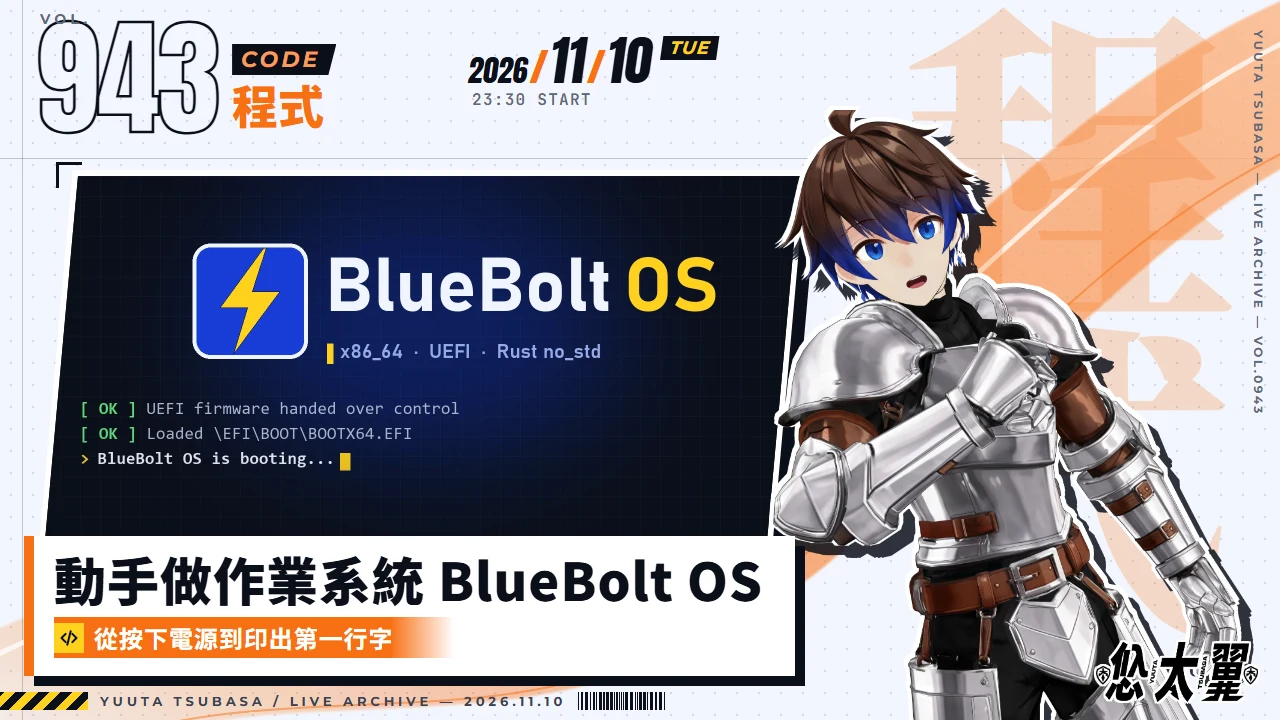
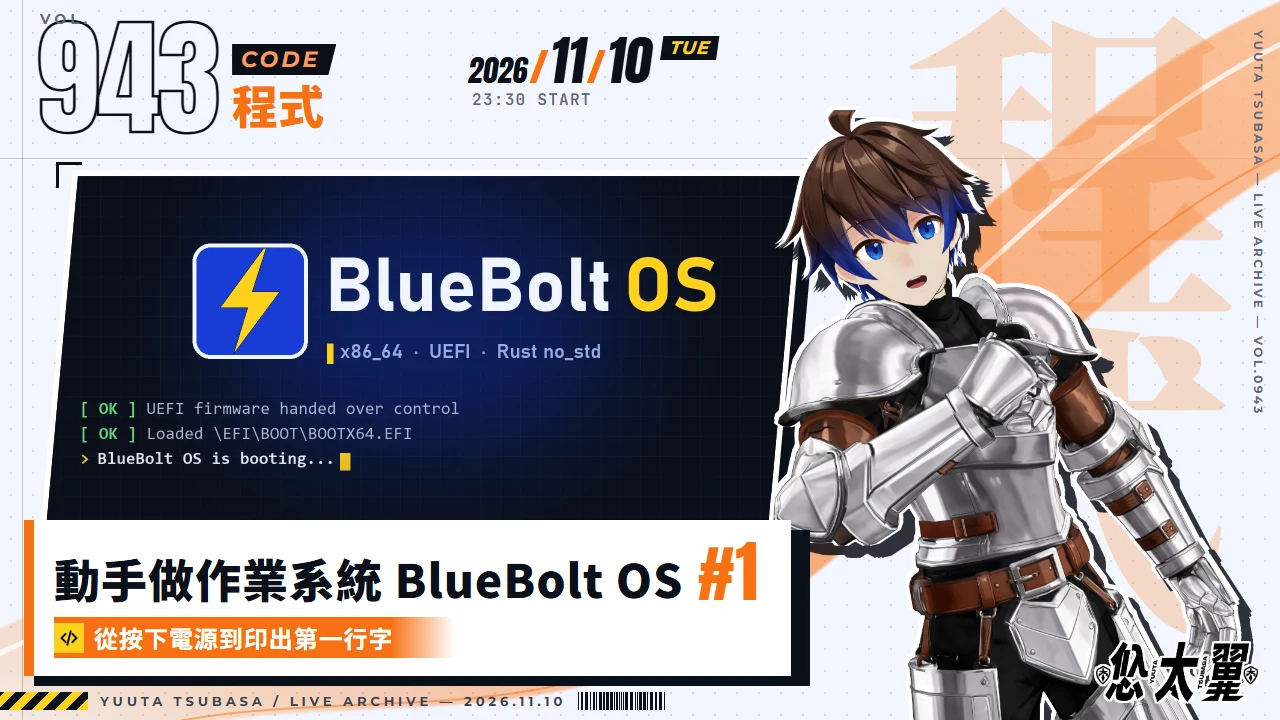
Add Vol.945 BlueBolt OS #2 cover, number Vol.943 as #1 (#25)
* Add Vol.945 BlueBolt OS #2 cover, number Vol.943 as #1, schedule Vol.945.

* Fix missing comma after Vol.944 in schedule.

---------

Changed region(s): [[0.0, 0.7028, 0.6562, 0.9472]]

diff --git a/src/lib/data/schedule.js b/src/lib/data/schedule.js
@@ -35,6 +35,7 @@ export const SCHEDULE = [
   { id: 'v942',      startsAt: '2026-11-09T23:10:00+08:00', durationMinutes: 90,  title: '索尼克賽車 交叉世界 #72',                    platforms: ['YouTube', 'Twitch'], tags: ['game'], url: 'https://yutaii.run/v/942' },
   { id: 'v943',      startsAt: '2026-11-10T23:30:00+08:00', durationMinutes: 120, title: '動手做作業系統 BlueBolt OS',                platforms: ['YouTube', 'Twitch'], tags: ['code'], url: 'https://yutaii.run/v/943' },
   // 週三~週五 11-11~11-13 休息日
-  { id: 'v944',      startsAt: '2026-11-14T23:30:00+08:00', durationMinutes: 90,  title: '索尼克賽車 交叉世界 #73',                    platforms: ['YouTube', 'Twitch'], tags: ['game'], url: 'https://yutaii.run/v/944' }
+  { id: 'v944',      startsAt: '2026-11-14T23:30:00+08:00', durationMinutes: 90,  title: '索尼克賽車 交叉世界 #73',                    platforms: ['YouTube', 'Twitch'], tags: ['game'], url: 'https://yutaii.run/v/944' },
   // 週日 11-15 休息日
+  { id: 'v945',      startsAt: '2026-11-17T23:30:00+08:00', durationMinutes: 120, title: '動手做作業系統 BlueBolt OS #2',             platforms: ['YouTube', 'Twitch'], tags: ['code'], url: 'https://yutaii.run/v/945' }
 ];
